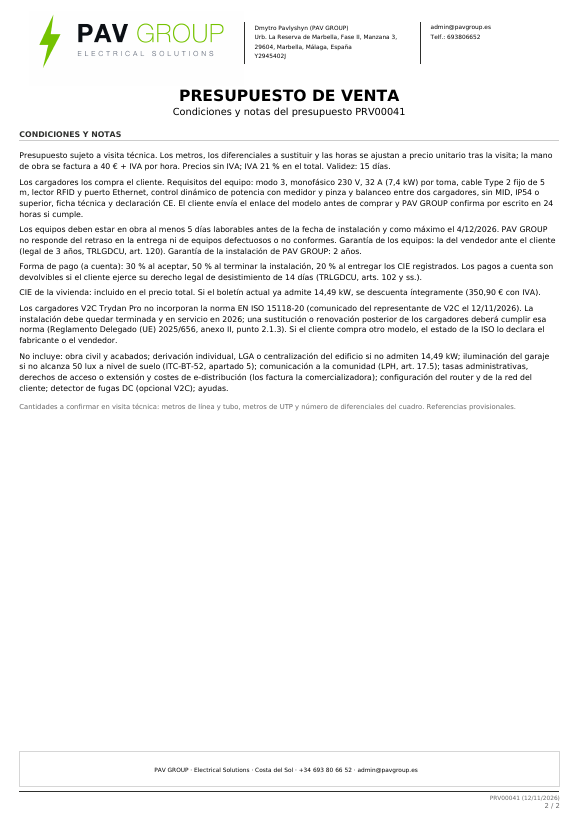
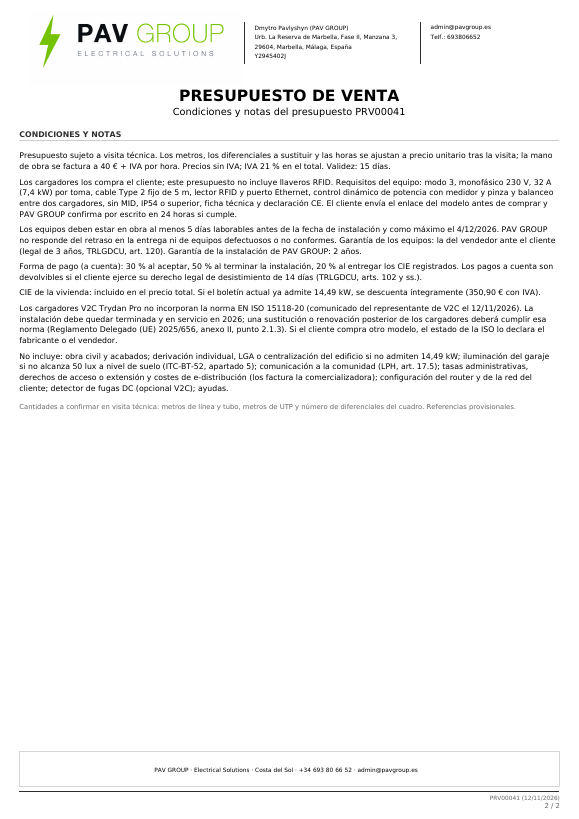
Opción A sin llaveros: PDF 00041 regenerado, cifras actualizadas (3.201,18 € con IVA)
Claude-Session: https://claude.ai/code/session_01CwqKQcvrT4DECCHpSPcHrG

Changed region(s): [[0.0311, 0.2137, 0.9637, 0.2747]]

diff --git a/mensaje_clienta_final_ru.md b/mensaje_clienta_final_ru.md
@@ -22,7 +22,7 @@ RFID и Ethernet есть только у Trydan Pro. У двух станций
 **Два варианта на выбор**
 
 **Вариант 1. Вы покупаете станции сами, мы устанавливаем и оформляем.** Вы покупаете две Trydan Pro (магазин V2C: 1 007,33 € с IVA каждая). Мы делаем остальное: линии, защиты, сеть, розетку в гараже, монтаж, настройку балансировки и брелков, техническую записку и CIE установки, CIE квартиры и оформление мощности.
-- **Наша часть: 3 212,07 € с IVA** (база 2 654,60 €). Если CIE квартиры не понадобится: 2 861,17 €. Вместе со станциями из магазина: **5 226,73 €**.
+- **Наша часть: 3 201,18 € с IVA** (база 2 645,60 €). Если CIE квартиры не понадобится: 2 850,28 €. Вместе со станциями из магазина: **5 215,84 €**.
 - Модель Вы присылаете до покупки; мы письменно подтверждаем за 24 часа, что она подходит (режим 3, 32 А на точку, кабель Type 2 5 м, RFID, Ethernet, ControlBox и балансировка двух станций, и заявленное производителем состояние ISO).
 - Станции должны быть на объекте минимум за 5 рабочих дней до монтажа и не позже 4 декабря. За срок поставки и дефекты оборудования мы не отвечаем. Гарантия на станции у продавца (по закону 3 года, Ley General para la Defensa de los Consumidores, ст. 120); на наш монтаж 2 года.
 
@@ -33,8 +33,8 @@ RFID и Ethernet есть только у Trydan Pro. У двух станций
 |---|---:|
 | Alva, смета от 13 октября | 4 883,89 € |
 | + Wi-Fi, который требовался тогда (200 € + IVA) | 5 125,89 € |
-| **Вариант 1 вместе со станциями из магазина** | **5 226,73 €** (+100,84 €) |
-| **Вариант 2** | **5 871,65 €** (+745,76 €) |
+| **Вариант 1 вместе со станциями из магазина** | **5 215,84 €** (+89,95 €) |
+| **Вариант 2** | **5 871,65 €** (+655,81 €) |
 
 Разница в основном из-за того, что Вы просили после 13 октября: RFID-брелки, розетка в гараже, замена IGA и дифференциалов, отдельная труба и кабели связи, CIE квартиры — вместе 909,07 € с IVA. Мы исходим из того, что этих позиций не было в смете на Alva.
 
@@ -65,10 +65,10 @@ RFID и Ethernet есть только у Trydan Pro. У двух станций
 ## Respuestas breves a las objeciones
 
 **1. «В магазине V2C Trydan Pro стоит 1 007,33 € за штуку».**
-Да, и поэтому есть вариант 1: Вы покупаете станции там, где дешевле, а мы устанавливаем и оформляем всё остальное за 3 212,07 € с IVA. Вариант 2 дороже суммы варианта 1 и магазина на 644,92 €: заказ и приёмка, проверка совместимости, настройка, один ответственный и гарантия как у продавца (3 года по закону).
+Да, и поэтому есть вариант 1: Вы покупаете станции там, где дешевле, а мы устанавливаем и оформляем всё остальное за 3 201,18 € с IVA. Вариант 2 дороже суммы варианта 1 и магазина на 644,92 €: заказ и приёмка, проверка совместимости, настройка, один ответственный и гарантия как у продавца (3 года по закону).
 
 **2. «Итог выше, чем со станцией Alva».**
-Вариант 1 вместе со станциями из магазина — 5 226,73 €, на 100,84 € больше, чем Alva с Wi-Fi, при том что в нём уже есть всё, что Вы попросили после 13 октября. Если CIE квартиры не понадобится, итог снижается ещё на 350,90 €.
+Вариант 1 вместе со станциями из магазина — 5 215,84 €, на 89,95 € больше, чем Alva с Wi-Fi, при том что в нём уже есть всё, что Вы попросили после 13 октября. Если CIE квартиры не понадобится, итог снижается ещё на 350,90 €.
 
 **3. «Я сделаю это с моим знакомым электриком».**
 Конечно, выбор за Вами; ваш знакомый уже помог с диммерами и автоматами. Для этой работы нужно следующее: CIE подаёт компания-установщик, уполномоченная для низкого напряжения (так сказано в процедуре TECI Junta de Andalucía); техническая записка (MTD) со схемой по ITC-BT-52; CIE квартиры, если e-distribución требует его для 14,49 кВт; настройка балансировки, брелков и V2C Cloud; и всё это должно быть закончено до 31 декабря 2026. Если Ваш знакомый — авторизованная компания BT и берёт на себя эти документы и срок, сравните объём со сметой. Если нет, мы готовы сделать всё под одной ответственностью, с гарантией и регистрацией.

diff --git a/propuesta_final_v5.md b/propuesta_final_v5.md
@@ -14,9 +14,9 @@ Precio, con una corrección frente a la v4: añadí el cable Ethernet del router
 | | v4 | **Final** |
 |---|---:|---:|
 | **B, llave en mano** (con IVA) | 5.805,82 € | **5.871,65 €** |
-| **A, ella compra los cargadores** (con IVA) | 3.146,24 € | **3.212,07 €** |
-| A más los dos Trydan Pro de la web (2.014,66 €) | 5.160,90 € | **5.226,73 €** |
-Margen con costes minoristas: B 30.2 %, A 35.1 %. Se quitó la variante de la Alva.
+| **A, ella compra los cargadores** (con IVA) | 3.135,35 € | **3.201,18 €** |
+| A más los dos Trydan Pro de la web (2.014,66 €) | 5.150,01 € | **5.215,84 €** |
+Margen con costes minoristas: B 30.2 %, A 35,1 %. Se quitó la variante de la Alva.
 
 ---
 
@@ -78,8 +78,8 @@ El aumento a 14,49 kW depende de e-distribución (plazos de respuesta reducidos 
 
 ## 4. Precio y margen
 - **B:** base 4.852,60 €, **5.871,65 € con IVA**, margen 30.2 %, beneficio 1.465,04 €. Sin CIE de la vivienda: 5.520,75 €.
-- **A:** base 2.654,60 €, **3.212,07 € con IVA**, margen 35.1 %, beneficio 932,04 €. Sin CIE de la vivienda: 2.861,17 €.
-- **Comparación con la Alva** (4.883,89 € + Wi-Fi 242,00 € = 5.125,89 €): A más los cargadores de la web = 5.226,73 € (**+100,84 €**); B = 5.871,65 € (+745,76 €). Lo comparable que ya incluía cuesta 4.962,58 € y lo nuevo que ella pidió suma 909,07 €. Esto supone que esas partidas no estaban en el PDF 00039.
+- **A:** base 2.645,60 €, **3.201,18 € con IVA**, margen 35,1 %, beneficio 929,04 €. Sin CIE de la vivienda: 2.850,28 €.
+- **Comparación con la Alva** (4.883,89 € + Wi-Fi 242,00 € = 5.125,89 €): A más los cargadores de la web = 5.215,84 € (**+89,95 €**); B = 5.871,65 € (+655,81 €). Lo comparable que ya incluía cuesta 4.962,58 € y lo nuevo que ella pidió suma 909,07 €. Esto supone que esas partidas no estaban en el PDF 00039.
 - **Si consigues tarifa de instalador** (descuentos supuestos, no datos): con V2C −10 % y materiales −20 %, B deja 35,5 % sin tocar el precio.
 | Dto. V2C | Dto. materiales | Margen B | Beneficio B |
 |---|---|---:|---:|

diff --git a/auditoria_tres_presupuestos.md b/auditoria_tres_presupuestos.md
@@ -2,8 +2,8 @@
 
 | | A (PRV00041) Trydan, cliente compra | B (PRV00042) Trydan llave en mano | C (PRV00043) Alva llave en mano |
 |---|---|---|---|
-| Base | 2.654,60 | 4.852,60 | 4.183,70 |
-| Total con IVA | 3.212,07 | 5.871,65 | 5.062,28 |
+| Base | 2.645,60 | 4.852,60 | 4.183,70 |
+| Total con IVA | 3.201,18 | 5.871,65 | 5.062,28 |
 | Margen | 35,1 % | 30,19 % | 30.73 % |
 
 ## Comprobado automáticamente
